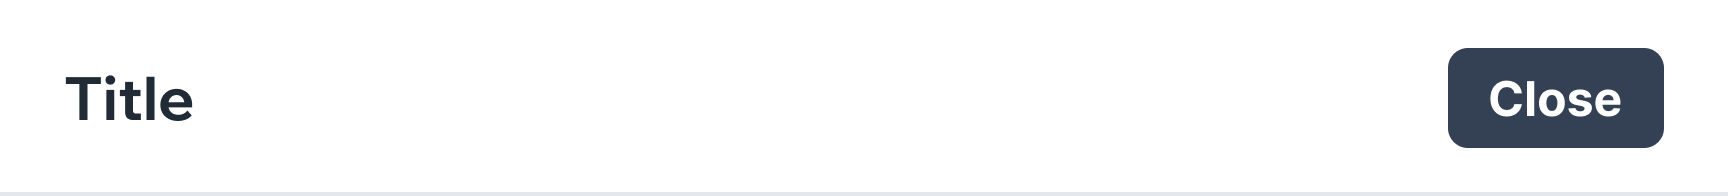
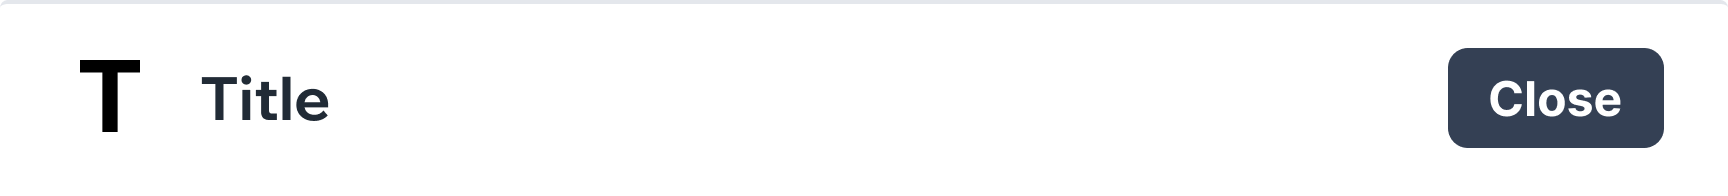
Update headingWidget.js to add 'w_icon' field and modify widget code; enhance index.js to include new segmented toggle component data.

Changed region(s): [[0.0312, 0.3061, 0.1875, 0.6735], [0.0, 0.9796, 1.0, 1.0], [0.0, 0.0, 1.0, 0.0306]]

diff --git a/build/index.html b/build/index.html
@@ -1,1 +1,1 @@
-<!doctype html><html lang="uk"><head><meta charset="utf-8"/><link rel="icon" href="/component-dashboard/favicon.ico"/><meta name="viewport" content="width=device-width,initial-scale=1"/><meta name="theme-color" content="#3b82f6"/><meta name="description" content="Інтерактивна бібліотека React компонентів з автоматичною темою та гарним дизайном. Документація, код та приклади використання."/><meta name="keywords" content="React, компоненти, UI, дизайн система, JavaScript, фронтенд"/><meta name="author" content="OrestTiny"/><link rel="apple-touch-icon" href="/component-dashboard/logo192.png"/><link rel="manifest" href="/component-dashboard/manifest.json"/><title>Component Dashboard 🎨 - Бібліотека React Компонентів</title><script defer="defer" src="/component-dashboard/static/js/main.9fb851da.js"></script><link href="/component-dashboard/static/css/main.39eb5ce7.css" rel="stylesheet"></head><body><noscript>Вам потрібно увімкнути JavaScript для роботи цього додатку.</noscript><div id="root"></div></body></html>
+<!doctype html><html lang="uk"><head><meta charset="utf-8"/><link rel="icon" href="/component-dashboard/favicon.ico"/><meta name="viewport" content="width=device-width,initial-scale=1"/><meta name="theme-color" content="#3b82f6"/><meta name="description" content="Інтерактивна бібліотека React компонентів з автоматичною темою та гарним дизайном. Документація, код та приклади використання."/><meta name="keywords" content="React, компоненти, UI, дизайн система, JavaScript, фронтенд"/><meta name="author" content="OrestTiny"/><link rel="apple-touch-icon" href="/component-dashboard/logo192.png"/><link rel="manifest" href="/component-dashboard/manifest.json"/><title>Component Dashboard 🎨 - Бібліотека React Компонентів</title><script defer="defer" src="/component-dashboard/static/js/main.be7fd5c0.js"></script><link href="/component-dashboard/static/css/main.39eb5ce7.css" rel="stylesheet"></head><body><noscript>Вам потрібно увімкнути JavaScript для роботи цього додатку.</noscript><div id="root"></div></body></html>

diff --git a/src/data/segmentedToggleImage.js b/src/data/segmentedToggleImage.js
@@ -1,0 +1,54 @@
+export const segmentedToggleImageData = {
+  id: 'segmentedToggleImage',
+  name: 'Segmented Toggle Image',
+  category: 'Form',
+  description: 'SegmentedToggleImage allows the user to select an image from a list of options',
+  parameters: [
+    {
+      name: 'title',
+      description: 'Title for the segmented toggle alignment field'
+    },
+    {
+      name: 'desc',
+      description: 'Description for the segmented toggle alignment field'
+    },
+    {
+      name: 'addit_class',
+      description: ''
+    },
+    {
+      name: 'img_size',
+      description: 'image name - "example.svg|example.png|...", default path - "/assets/images/image-radios/*.svg|*.png..."'
+    },
+    {
+      name: 'svg',
+      description: 'svg code'
+    },
+  ],
+  sections: [
+    {
+      id: 'basic',
+      image: `${process.env.PUBLIC_URL}/assets/images/segmentedToggleImage/basic.png`,
+      code: `
+@include('widget::components.design-parts.image_radio', [
+  'title' => 'title',
+  'desc' => 'desc',
+  'input_name' => 'name',
+  'img_size' => 46,
+  'options' => [
+    [
+        'value' => 'value',
+        'text' => 'text',
+        'svg' => 'svg',
+      ],
+      [
+          'value' => 'value',
+          'text' => 'text',
+          'svg' => 'svg',
+      ],
+  ],
+])
+`
+    },
+  ]
+}; 

diff --git a/src/data/segmentedToggleMini.js b/src/data/segmentedToggleMini.js
@@ -1,0 +1,54 @@
+export const segmentedToggleMiniData = {
+  id: 'segmentedToggleMini',
+  name: 'Segmented Toggle Mini',
+  category: 'Form',
+  description: 'SegmentedToggleMini allows the user to select an option from a list of options',
+  parameters: [
+    {
+      name: 'title',
+      description: 'Title for the segmented toggle alignment field'
+    },
+    {
+      name: 'desc',
+      description: 'Description for the segmented toggle alignment field'
+    },
+    {
+      name: 'addit_class',
+      description: ''
+    },
+    {
+      name: 'img_size',
+      description: 'image name - "example.svg|example.png|...", default path - "/assets/images/image-radios/*.svg|*.png..."'
+    },
+    {
+      name: 'svg',
+      description: 'svg code'
+    },
+  ],
+  sections: [
+    {
+      id: 'basic',
+      image: `${process.env.PUBLIC_URL}/assets/images/segmentedToggleImage/basic.png`,
+      code: `
+@include('widget::components.design-parts.image_radio', [
+  'title' => 'title',
+  'desc' => 'desc',
+  'input_name' => 'name',
+  'img_size' => 46,
+  'options' => [
+    [
+        'value' => 'value',
+        'text' => 'text',
+        'svg' => 'svg',
+      ],
+      [
+          'value' => 'value',
+          'text' => 'text',
+          'svg' => 'svg',
+      ],
+  ],
+])
+`
+    },
+  ]
+}; 

diff --git a/src/data/segmentedToggleTabs.js b/src/data/segmentedToggleTabs.js
@@ -1,0 +1,51 @@
+export const segmentedToggleTabsData = {
+  id: 'segmentedToggleTabs',
+  name: 'Segmented Toggle Tabs',
+  category: 'Form',
+  description: 'SegmentedToggleTabs allows the user to select an option from a list of options',
+  parameters: [
+    {
+      name: 'title',
+      description: 'Title for the segmented toggle alignment field'
+    },
+    {
+      name: 'desc',
+      description: 'Description for the segmented toggle alignment field'
+    },
+    {
+      name: 'input_name',
+      description: 'Name for the segmented toggle alignment field'
+    },
+  ],
+  sections: [
+    {
+      id: 'basic',
+      image: `${process.env.PUBLIC_URL}/assets/images/segmentedToggleTabs/basic.png`,
+      code: `
+@include('widget::components.template-parts.tab-group',[
+  'title' => 'title',
+  'desc' => 'desc',
+  'tabs' => [
+      [
+          'option' => 'options_1',
+          'value' => 'options_1',
+          'id' => 'example_options_1',
+      ],
+      [
+          'option' => 'options_2',
+          'value' => 'options_2',
+          'id' => 'example_options_2',
+      ],
+]])
+
+<div class="tile-column example_options_1">
+  {{-- content --}}
+</div>
+
+<div class="tile-column example_options_2">
+  {{-- content --}}
+</div>
+`
+    },
+  ]
+}; 

diff --git a/src/data/index.js b/src/data/index.js
@@ -16,6 +16,10 @@ import { borderSectionTabsData } from './borderSectionTabs';
 import { repeaterData } from './repeater';
 import { designAccordionSectionData } from './designAccordionSection';
 import { columnsData } from './columns';
+import { segmentedToggleImageData } from './segmentedToggleImage';
+import { segmentedToggleResponsiveData } from './segmentedToggleResponsive';
+import { segmentedToggleTabsData } from './segmentedToggleTabs';
+
 // Export all component data
 export const componentData = [
   headingWidgetData,
@@ -24,6 +28,9 @@ export const componentData = [
   textEditorData,
   numberInputData,
   segmentedToggleAlignmentData,
+  segmentedToggleImageData,
+  segmentedToggleResponsiveData,
+  segmentedToggleTabsData,
   rangeData,
   switcherData,
   uploadFileData,
@@ -58,4 +65,7 @@ export {
   borderSectionTabsData,
   repeaterData,
   columnsData,
+  segmentedToggleImageData,
+  segmentedToggleResponsiveData,
+  segmentedToggleTabsData,
 }; 

diff --git a/src/data/segmentedToggleResponsive.js b/src/data/segmentedToggleResponsive.js
@@ -1,0 +1,28 @@
+export const segmentedToggleResponsiveData = {
+  id: 'segmentedToggleResponsive',
+  name: 'Segmented Toggle Responsive',
+  category: 'Form',
+  description: 'SegmentedToggleResponsive allows the user to select an option from a list of options',
+  parameters: [
+    {
+      name: 'title',
+      description: 'Title for the segmented toggle alignment field'
+    },
+    {
+      name: 'desc',
+      description: 'Description for the segmented toggle alignment field'
+    },
+  ],
+  sections: [
+    {
+      id: 'basic',
+      image: `${process.env.PUBLIC_URL}/assets/images/segmentedToggleResponsive/basic.png`,
+      code: `
+@include('widget::components.design-parts.switcher_responsive', [
+    'title' => 'title',
+    'desc' => 'desc',
+])
+`
+    },
+  ]
+}; 

diff --git a/src/data/headingWidget.js b/src/data/headingWidget.js
@@ -12,6 +12,10 @@ export const headingWidgetData = {
     {
       name: 'w_title',
       description: 'Description for the heading field'
+    },
+    {
+      name: 'w_icon',
+      description: 'path - "/assets/images/section/*.svg"'
     }
   ],
   sections: [
@@ -20,8 +24,8 @@ export const headingWidgetData = {
       image: `${process.env.PUBLIC_URL}/assets/images/headingWidget/basic.png`,
       code: `
 @include('widget::components.design-parts.widget_header', [
-    'w_title' => 'widgetName_item_title',
-    'w_btn_class' => 'js-repeater-field__content-btn',
+    'w_icon' => 'widgetName.svg',
+    'w_title' => 'widgetName,
 ])
     `
     },
